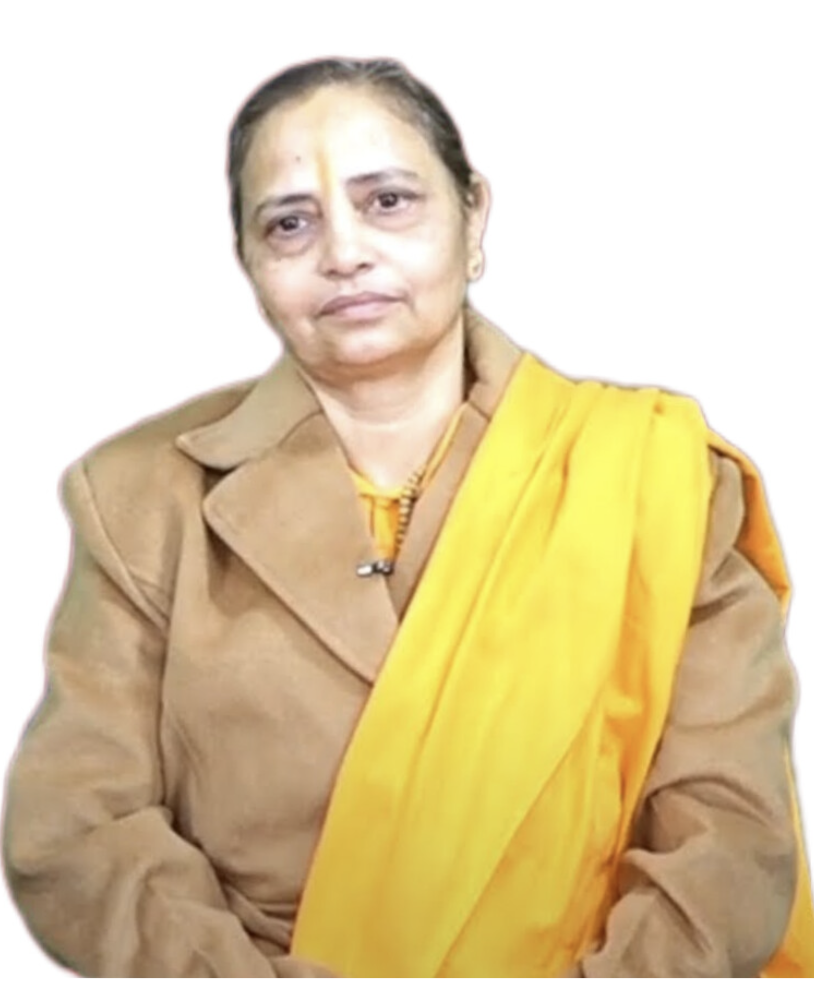
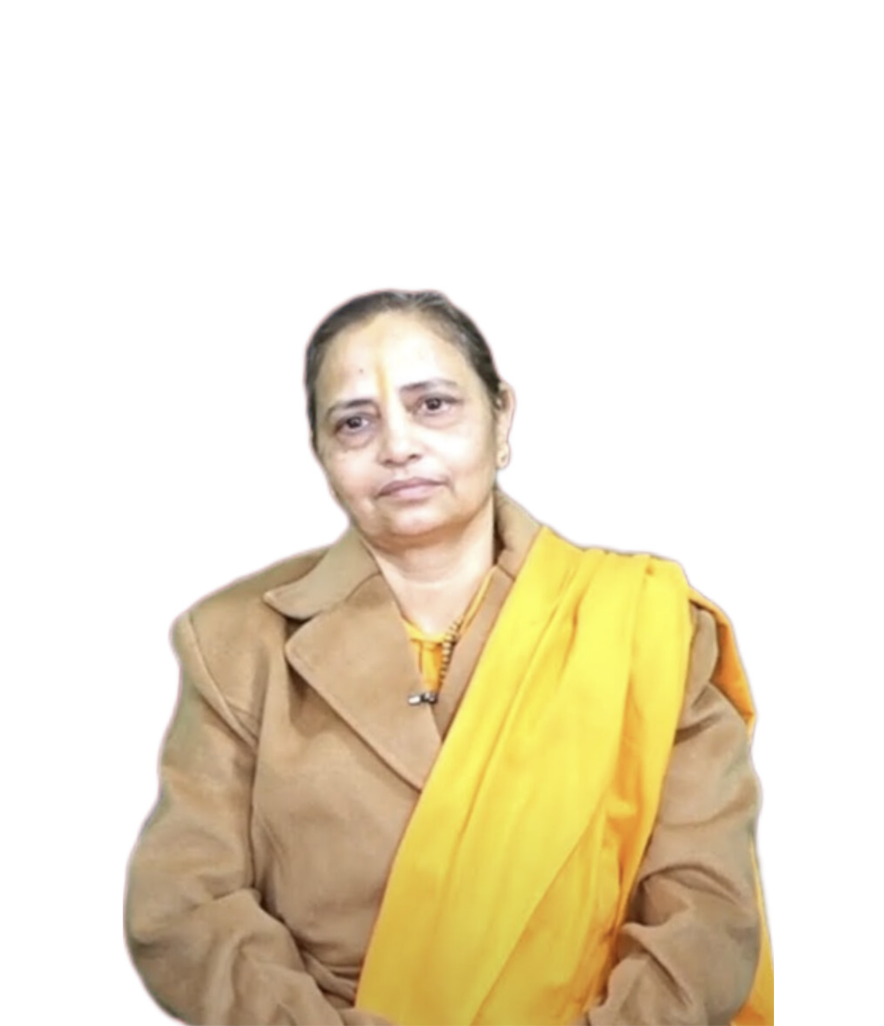
Change image

diff --git a/lib/main.dart b/lib/main.dart
@@ -1,17 +1,17 @@
-import 'dart:html' as html;
-import 'dart:js_util' as js_util;
-import 'dart:ui_web' as ui_web;
-
 import 'package:flutter/material.dart';
 import 'package:flutter_localizations/flutter_localizations.dart';
 import 'package:google_fonts/google_fonts.dart';
-import 'package:web/web.dart' as web show HTMLIFrameElement;
+
+import 'web_platform.dart';
 
 // EmailJS Configuration
 const String emailjsServiceId = 'service_xu8fwps';
-const String emailjsTemplateId = 'template_y03xjwd'; // Replace with your template ID
-const String emailjsPublicKey = 'ZbZZAtfauXMp4calj'; // Replace with your public key
-const String emailjsRecipientEmail = 'bhartiysadbhavnamanch@gmail.com'; // Replace with recipient email
+const String emailjsTemplateId =
+    'template_y03xjwd'; // Replace with your template ID
+const String emailjsPublicKey =
+    'ZbZZAtfauXMp4calj'; // Replace with your public key
+const String emailjsRecipientEmail =
+    'bhartiysadbhavnamanch@gmail.com'; // Replace with recipient email
 
 void main() {
   runApp(const MyApp());
@@ -77,7 +77,6 @@ class _HomePageState extends State<HomePage> {
   final GlobalKey _homeKey = GlobalKey();
   final GlobalKey _historyKey = GlobalKey();
   final GlobalKey _membersKey = GlobalKey();
-  final GlobalKey _blogsKey = GlobalKey();
   final GlobalKey _videosKey = GlobalKey();
   final GlobalKey _contactKey = GlobalKey();
 
@@ -115,10 +114,6 @@ class _HomePageState extends State<HomePage> {
           child: Text(getText('Members', 'सदस्य'),
               style: const TextStyle(color: Colors.orange))),
       TextButton(
-          onPressed: () => _scrollToSection(_blogsKey),
-          child: Text(getText('Blogs', 'ब्लॉग'),
-              style: const TextStyle(color: Colors.orange))),
-      TextButton(
           onPressed: () => _scrollToSection(_videosKey),
           child: Text(getText('Videos', 'वीडियो'),
               style: const TextStyle(color: Colors.orange))),
@@ -140,7 +135,6 @@ class _HomePageState extends State<HomePage> {
             value: _historyKey, child: Text(getText('History', 'इतिहास'))),
         PopupMenuItem(
             value: _membersKey, child: Text(getText('Members', 'सदस्य'))),
-        PopupMenuItem(value: _blogsKey, child: Text(getText('Blogs', 'ब्लॉग'))),
         PopupMenuItem(
             value: _videosKey, child: Text(getText('Videos', 'वीडियो'))),
         PopupMenuItem(
@@ -151,16 +145,7 @@ class _HomePageState extends State<HomePage> {
 
   // Register YouTube Video for Web
   void _registerYouTubeView(String videoId) {
-    final viewType = 'youtube-$videoId';
-    ui_web.platformViewRegistry.registerViewFactory(
-      viewType,
-      (int viewId) => web.HTMLIFrameElement()
-        ..width = '100%'
-        ..height = '100%'
-        ..src = 'https://www.youtube.com/embed/$videoId'
-        ..style.border = 'none'
-        ..allowFullscreen = true,
-    );
+    registerYouTubeView(videoId);
   }
 
   @override
@@ -414,69 +399,6 @@ Bhartiya Sadbhavna Manch stands as a platform committed to nation-building, soci
               ),
             ),
 
-            // ==================== BLOGS SECTION ====================
-            Container(
-              key: _blogsKey,
-              padding: const EdgeInsets.symmetric(vertical: 80, horizontal: 40),
-              child: Column(
-                children: [
-                  Text(
-                    getText('Latest Blogs', 'नवीनतम ब्लॉग'),
-                    style: const TextStyle(
-                        fontSize: 36, fontWeight: FontWeight.bold),
-                  ),
-                  const SizedBox(height: 20),
-                  Text(
-                    getText(
-                        'Insights and updates from Bhartiya Sadbhavna Manch',
-                        'भारतीय सद्भावना मंच की अंतर्दृष्टि और अपडेट'),
-                    style: TextStyle(fontSize: 18, color: Colors.grey[700]),
-                  ),
-                  const SizedBox(height: 50),
-
-                  // Responsive Blog Cards
-                  Wrap(
-                    spacing: 25,
-                    runSpacing: 30,
-                    alignment: WrapAlignment.center,
-                    children: [
-                      _buildBlogCard(
-                        titleEn: 'Importance of Social Harmony in Modern India',
-                        titleHi: 'आधुनिक भारत में सामाजिक सद्भावना का महत्व',
-                        excerptEn:
-                            'Exploring how unity and goodwill can strengthen our diverse society...',
-                        excerptHi:
-                            'यह कैसे एकता और सद्भावना हमारी विविध समाज को मजबूत बना सकती है...',
-                        imageUrl: 'https://picsum.photos/id/201/400/250',
-                        date: '12 April 2026',
-                      ),
-                      _buildBlogCard(
-                        titleEn: 'Role of Youth in Nation Building',
-                        titleHi: 'राष्ट्र निर्माण में युवाओं की भूमिका',
-                        excerptEn:
-                            'How young minds are leading initiatives for social unity...',
-                        excerptHi:
-                            'कैसे युवा मस्तिष्क सामाजिक एकता के लिए पहल कर रहे हैं...',
-                        imageUrl: 'https://picsum.photos/id/202/400/250',
-                        date: '10 April 2026',
-                      ),
-                      _buildBlogCard(
-                        titleEn: 'Cultural Events that Promote Goodwill',
-                        titleHi:
-                            'सद्भावना को बढ़ावा देने वाले सांस्कृतिक कार्यक्रम',
-                        excerptEn:
-                            'A look at our recent successful cultural programs...',
-                        excerptHi:
-                            'हमारे हाल के सफल सांस्कृतिक कार्यक्रमों पर एक नजर...',
-                        imageUrl: 'https://picsum.photos/id/203/400/250',
-                        date: '08 April 2026',
-                      ),
-                    ],
-                  ),
-                ],
-              ),
-            ),
-
             // Videos Section
             Container(
               key: _videosKey,
@@ -646,70 +568,6 @@ Bhartiya Sadbhavna Manch stands as a platform committed to nation-building, soci
                   Text(bio,
                       style: const TextStyle(fontSize: 14, height: 1.5),
                       textAlign: TextAlign.center),
-                ],
-              ),
-            ),
-          ],
-        ),
-      ),
-    );
-  }
-
-  // Beautiful Blog Card
-  Widget _buildBlogCard({
-    required String titleEn,
-    required String titleHi,
-    required String excerptEn,
-    required String excerptHi,
-    required String imageUrl,
-    required String date,
-  }) {
-    final title = getText(titleEn, titleHi);
-    final excerpt = getText(excerptEn, excerptHi);
-
-    return Card(
-      elevation: 6,
-      shape: RoundedRectangleBorder(borderRadius: BorderRadius.circular(16)),
-      child: SizedBox(
-        width: 340,
-        child: Column(
-          crossAxisAlignment: CrossAxisAlignment.start,
-          children: [
-            ClipRRect(
-              borderRadius:
-                  const BorderRadius.vertical(top: Radius.circular(16)),
-              child: Image.network(imageUrl,
-                  height: 200, width: double.infinity, fit: BoxFit.cover),
-            ),
-            Padding(
-              padding: const EdgeInsets.all(16),
-              child: Column(
-                crossAxisAlignment: CrossAxisAlignment.start,
-                children: [
-                  Text(date,
-                      style: TextStyle(fontSize: 13, color: Colors.grey[600])),
-                  const SizedBox(height: 8),
-                  Text(title,
-                      style: const TextStyle(
-                          fontSize: 20,
-                          fontWeight: FontWeight.bold,
-                          height: 1.3),
-                      maxLines: 2,
-                      overflow: TextOverflow.ellipsis),
-                  const SizedBox(height: 12),
-                  Text(excerpt,
-                      style: const TextStyle(fontSize: 15, height: 1.5),
-                      maxLines: 3,
-                      overflow: TextOverflow.ellipsis),
-                  const SizedBox(height: 16),
-                  Align(
-                    alignment: Alignment.centerRight,
-                    child: TextButton(
-                      onPressed: () {},
-                      child: Text(getText('Read More →', 'और पढ़ें →'),
-                          style: const TextStyle(fontWeight: FontWeight.w600)),
-                    ),
-                  ),
                 ],
               ),
             ),
@@ -994,8 +852,9 @@ Bhartiya Sadbhavna Manch stands as a platform committed to nation-building, soci
   }
 
   // Send email using EmailJS
-  Future<void> _sendEmailViaEmailJS(String name, String email, String phone, String message) async {
-    final params = js_util.jsify({
+  Future<void> _sendEmailViaEmailJS(
+      String name, String email, String phone, String message) async {
+    final params = <String, dynamic>{
       'service_id': emailjsServiceId,
       'template_id': emailjsTemplateId,
       'template_params': {
@@ -1005,16 +864,10 @@ Bhartiya Sadbhavna Manch stands as a platform committed to nation-building, soci
         'phone': phone,
         'message': message,
       }
-    });
+    };
 
     try {
-      final sendFn = js_util.getProperty(html.window, 'sendEmailJS');
-      if (sendFn == null) {
-        throw Exception('sendEmailJS is not defined on window');
-      }
-
-      final promise = js_util.callMethod(sendFn, 'call', [html.window, params]);
-      await js_util.promiseToFuture(promise);
+      await sendEmailJS(params);
 
       if (mounted) {
         setState(() => _isSubmitting = false);
@@ -1032,9 +885,12 @@ Bhartiya Sadbhavna Manch stands as a platform committed to nation-building, soci
     } catch (e) {
       if (mounted) {
         setState(() => _isSubmitting = false);
-        final errorMessage = e?.toString() ?? 'Unknown error';
-        _showSnackBar(getText('Error sending message. Please try again.', 'संदेश भेजने में त्रुटि। कृपया पुनः प्रयास करें।') + '\n' + errorMessage);
-        print('EmailJS Error: $e');
+        final errorMessage = e.toString();
+        _showSnackBar(
+          '${getText('Error sending message. Please try again.',
+                  'संदेश भेजने में त्रुटि। कृपया पुनः प्रयास करें।')}\n$errorMessage',
+        );
+        debugPrint('EmailJS Error: $e');
       }
     }
   }

diff --git a/lib/web_platform_web.dart b/lib/web_platform_web.dart
@@ -1,0 +1,30 @@
+// ignore_for_file: deprecated_member_use, avoid_web_libraries_in_flutter, uri_does_not_exist
+
+import 'dart:html' as html;
+import 'dart:js_util' as js_util;
+import 'dart:ui_web' as ui_web;
+
+import 'package:web/web.dart' as web show HTMLIFrameElement;
+
+void registerYouTubeView(String videoId) {
+  final viewType = 'youtube-$videoId';
+  ui_web.platformViewRegistry.registerViewFactory(
+    viewType,
+    (int viewId) => web.HTMLIFrameElement()
+      ..width = '100%'
+      ..height = '100%'
+      ..src = 'https://www.youtube.com/embed/$videoId'
+      ..style.border = 'none'
+      ..allowFullscreen = true,
+  );
+}
+
+Future<void> sendEmailJS(Map<String, dynamic> params) async {
+  final sendFn = js_util.getProperty(html.window, 'sendEmailJS');
+  if (sendFn == null) {
+    throw Exception('sendEmailJS is not defined on window');
+  }
+
+  final promise = js_util.callMethod(sendFn, 'call', [html.window, params]);
+  await js_util.promiseToFuture(promise);
+}

diff --git a/lib/web_platform_stub.dart b/lib/web_platform_stub.dart
@@ -1,0 +1,5 @@
+void registerYouTubeView(String videoId) {}
+
+Future<void> sendEmailJS(Map<String, dynamic> params) async {
+  throw UnsupportedError('EmailJS is only supported on web.');
+}

diff --git a/lib/web_platform.dart b/lib/web_platform.dart
@@ -1,0 +1,2 @@
+export 'web_platform_stub.dart'
+  if (dart.library.html) 'web_platform_web.dart';
